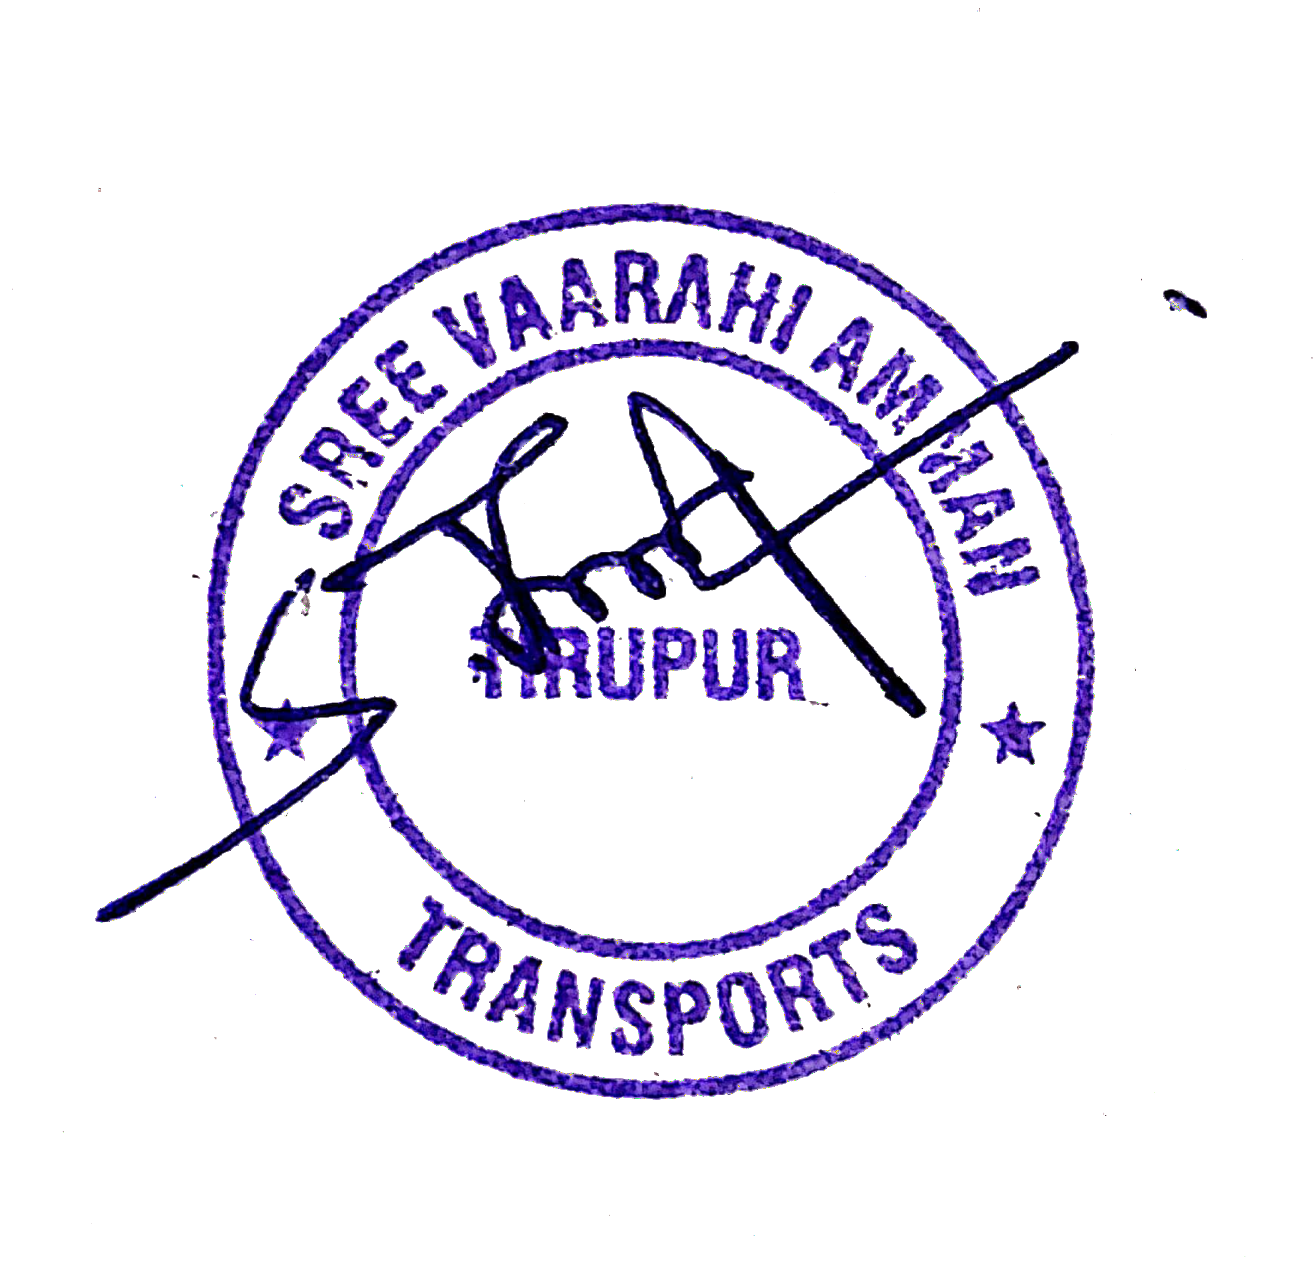
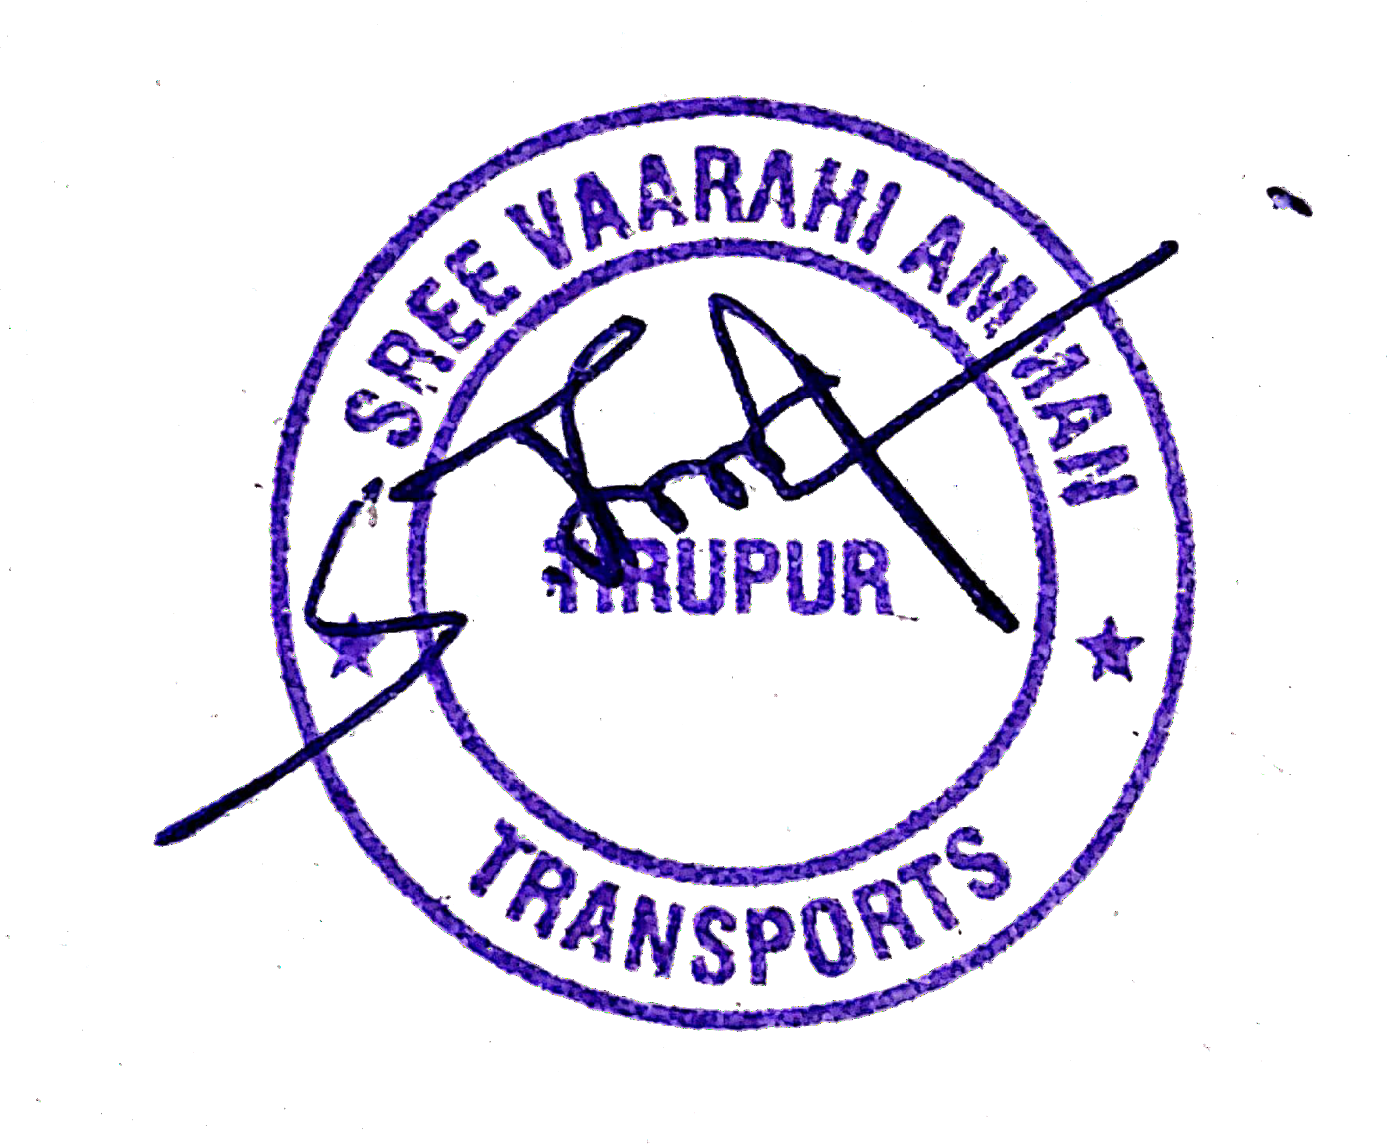
sign

Changed region(s): [[0.0624, 0.0611, 0.8737, 0.9162], [0.8737, 0.2138, 0.9361, 0.2443], [0.9049, 0.1527, 0.9361, 0.1832]]

diff --git a/src/pages/Dashboard.jsx b/src/pages/Dashboard.jsx
@@ -1985,12 +1985,12 @@ export default function Dashboard({ onLogout }) {
                       <table className="bill-table" style={{ width: '100%', borderCollapse: 'collapse', fontSize: '0.72rem' }}>
                         <thead>
                           <tr>
-                            <th style={{ width: '8%', textAlign: 'center', borderRight: '1.5px solid #000000', borderBottom: '1.5px solid #000000', padding: '4px' }}>Sl No.</th>
-                            <th style={{ width: '45%', textAlign: 'center', borderRight: '1.5px solid #000000', borderBottom: '1.5px solid #000000', padding: '4px' }}>Particulars</th>
-                            <th style={{ width: '12%', textAlign: 'center', borderRight: '1.5px solid #000000', borderBottom: '1.5px solid #000000', padding: '4px' }}>Quantity</th>
-                            <th style={{ width: '15%', textAlign: 'center', borderRight: '1.5px solid #000000', borderBottom: '1.5px solid #000000', padding: '4px' }}>Rate</th>
-                            <th style={{ width: '10%', textAlign: 'center', borderRight: '1.5px solid #000000', borderBottom: '1.5px solid #000000', padding: '4px' }}>per</th>
-                            <th style={{ width: '10%', textAlign: 'center', borderBottom: '1.5px solid #000000', padding: '4px' }}>Amount</th>
+                            <th style={{ width: '6%', textAlign: 'center', borderRight: '1.5px solid #000000', borderBottom: '1.5px solid #000000', padding: '4px' }}>Sl No.</th>
+                            <th style={{ width: '35%', textAlign: 'center', borderRight: '1.5px solid #000000', borderBottom: '1.5px solid #000000', padding: '4px' }}>Particulars</th>
+                            <th style={{ width: '10%', textAlign: 'center', borderRight: '1.5px solid #000000', borderBottom: '1.5px solid #000000', padding: '4px' }}>Quantity</th>
+                            <th style={{ width: '14%', textAlign: 'center', borderRight: '1.5px solid #000000', borderBottom: '1.5px solid #000000', padding: '4px' }}>Rate</th>
+                            <th style={{ width: '7%', textAlign: 'center', borderRight: '1.5px solid #000000', borderBottom: '1.5px solid #000000', padding: '4px' }}>per</th>
+                            <th style={{ width: '28%', textAlign: 'center', borderBottom: '1.5px solid #000000', padding: '4px' }}>Amount</th>
                           </tr>
                         </thead>
                         <tbody>
@@ -2019,7 +2019,7 @@ export default function Dashboard({ onLogout }) {
                                 <td style={{ textAlign: 'right', borderRight: '1.5px solid #000000', padding: '6px' }}>{qtyVal !== null ? qtyVal : ''}</td>
                                 <td style={{ textAlign: 'right', borderRight: '1.5px solid #000000', padding: '6px' }}>{rateVal !== null ? rateVal.toLocaleString('en-IN', { minimumFractionDigits: 2, maximumFractionDigits: 2 }) : ''}</td>
                                 <td style={{ borderRight: '1.5px solid #000000', padding: '6px', textAlign: 'center' }}>{item.per || ''}</td>
-                                <td style={{ textAlign: 'right', fontWeight: 800, padding: '6px' }}>{amtStr}</td>
+                                <td style={{ textAlign: 'right', fontWeight: 800, padding: '6px', whiteSpace: 'nowrap' }}>{amtStr}</td>
                               </tr>
                             );
                           })}
@@ -2040,7 +2040,7 @@ export default function Dashboard({ onLogout }) {
                           <tr style={{ borderTop: '1.5px solid #000000', fontWeight: 'bold' }}>
                             <td style={{ borderRight: '1.5px solid #000000', padding: '4px' }}></td>
                             <td colSpan={4} style={{ borderRight: '1.5px solid #000000', textAlign: 'right', padding: '4px' }}>Sub Total</td>
-                            <td style={{ textAlign: 'right', padding: '4px' }}>{subtotal.toLocaleString('en-IN', { minimumFractionDigits: 2, maximumFractionDigits: 2 })}</td>
+                            <td style={{ textAlign: 'right', padding: '4px', whiteSpace: 'nowrap' }}>{subtotal.toLocaleString('en-IN', { minimumFractionDigits: 2, maximumFractionDigits: 2 })}</td>
                           </tr>
 
                           {/* CGST row */}
@@ -2050,7 +2050,7 @@ export default function Dashboard({ onLogout }) {
                               <td colSpan={4} style={{ borderRight: '1.5px solid #000000', textAlign: 'right', padding: '4px' }}>
                                 CGST ( {displayCgstRate ? `${displayCgstRate} %` : '        %'} )
                               </td>
-                              <td style={{ textAlign: 'right', padding: '4px' }}>{cgstAmount.toLocaleString('en-IN', { minimumFractionDigits: 2, maximumFractionDigits: 2 })}</td>
+                              <td style={{ textAlign: 'right', padding: '4px', whiteSpace: 'nowrap' }}>{cgstAmount.toLocaleString('en-IN', { minimumFractionDigits: 2, maximumFractionDigits: 2 })}</td>
                             </tr>
                           )}
 
@@ -2061,7 +2061,7 @@ export default function Dashboard({ onLogout }) {
                               <td colSpan={4} style={{ borderRight: '1.5px solid #000000', textAlign: 'right', padding: '4px' }}>
                                 SGST ( {displaySgstRate ? `${displaySgstRate} %` : '        %'} )
                               </td>
-                              <td style={{ textAlign: 'right', padding: '4px' }}>{sgstAmount.toLocaleString('en-IN', { minimumFractionDigits: 2, maximumFractionDigits: 2 })}</td>
+                              <td style={{ textAlign: 'right', padding: '4px', whiteSpace: 'nowrap' }}>{sgstAmount.toLocaleString('en-IN', { minimumFractionDigits: 2, maximumFractionDigits: 2 })}</td>
                             </tr>
                           )}
 
@@ -2072,7 +2072,7 @@ export default function Dashboard({ onLogout }) {
                               <td colSpan={4} style={{ borderRight: '1.5px solid #000000', textAlign: 'right', padding: '4px' }}>
                                 IGST ( 0 % )
                               </td>
-                              <td style={{ textAlign: 'right', padding: '4px' }}>{igstAmount.toLocaleString('en-IN', { minimumFractionDigits: 2, maximumFractionDigits: 2 })}</td>
+                              <td style={{ textAlign: 'right', padding: '4px', whiteSpace: 'nowrap' }}>{igstAmount.toLocaleString('en-IN', { minimumFractionDigits: 2, maximumFractionDigits: 2 })}</td>
                             </tr>
                           )}
 
@@ -2084,7 +2084,7 @@ export default function Dashboard({ onLogout }) {
                             <td colSpan={4} style={{ borderRight: '1.5px solid #000000', textAlign: 'right', padding: '5px', fontWeight: '800' }}>
                               Grand Total
                             </td>
-                            <td style={{ textAlign: 'right', padding: '5px', fontWeight: '800' }}>
+                            <td style={{ textAlign: 'right', padding: '5px', fontWeight: '800', whiteSpace: 'nowrap' }}>
                               ₹ {totalAmount.toLocaleString('en-IN', { minimumFractionDigits: 2, maximumFractionDigits: 2 })}
                             </td>
                           </tr>

diff --git a/src/pages/LrCreator.jsx b/src/pages/LrCreator.jsx
@@ -297,10 +297,12 @@ export default function LrCreator({ loadedLr = null, triggerToast = null }) {
     return dateStr;
   };
 
-  const [signatureImage, setSignatureImage] = useState(() => {
-    return localStorage.getItem('svat_signature_image') || '/signature.png';
-  });
+  const [signatureImage, setSignatureImage] = useState('/signature.png');
   const [showSignature, setShowSignature] = useState(true);
+
+  useEffect(() => {
+    localStorage.removeItem('svat_signature_image');
+  }, []);
 
   const handleSignatureUpload = (e) => {
     const file = e.target.files[0];
@@ -1241,11 +1243,13 @@ export default function LrCreator({ loadedLr = null, triggerToast = null }) {
               {(formData.cargoItems || []).map((item, idx) => (
                 <tr key={idx}>
                   <td>
-                    <AutocompleteTableInput
-                      placeholder="e.g. 100"
+                    <input
+                      type="text"
+                      className="form-input"
+                      style={{ width: '100%', padding: '6px 8px', fontSize: '0.8rem' }}
+                      placeholder="e.g. 10"
                       value={item.noOfPackages}
                       onChange={(e) => handleCargoItemChange(idx, 'noOfPackages', e.target.value)}
-                      suggestions={getFieldSuggestionsForCargo('noOfPackages')}
                     />
                   </td>
                   <td>
@@ -1257,19 +1261,23 @@ export default function LrCreator({ loadedLr = null, triggerToast = null }) {
                     />
                   </td>
                   <td>
-                    <AutocompleteTableInput
+                    <input
+                      type="text"
+                      className="form-input"
+                      style={{ width: '100%', padding: '6px 8px', fontSize: '0.8rem' }}
                       placeholder="Kgs"
                       value={item.actualWeight}
                       onChange={(e) => handleCargoItemChange(idx, 'actualWeight', e.target.value)}
-                      suggestions={getFieldSuggestionsForCargo('actualWeight')}
                     />
                   </td>
                   <td>
-                    <AutocompleteTableInput
+                    <input
+                      type="text"
+                      className="form-input"
+                      style={{ width: '100%', padding: '6px 8px', fontSize: '0.8rem' }}
                       placeholder="Kgs"
                       value={item.chargedWeight}
                       onChange={(e) => handleCargoItemChange(idx, 'chargedWeight', e.target.value)}
-                      suggestions={getFieldSuggestionsForCargo('chargedWeight')}
                     />
                   </td>
                   <td>
@@ -1941,9 +1949,23 @@ export default function LrCreator({ loadedLr = null, triggerToast = null }) {
                               </td>
                               {/* Receiver's Signature Box */}
                               <td style={{ width: '35%', borderRight: '3px solid #08103A', padding: '6px', verticalAlign: 'top', fontSize: '0.65rem' }}>
-                                <div style={{ display: 'flex', flexDirection: 'column', minHeight: '100px', justifyContent: 'space-between' }}>
+                                <div style={{ display: 'flex', flexDirection: 'column', minHeight: '100px', justifyContent: 'space-between', alignItems: 'center', position: 'relative' }}>
                                   <div style={{ textAlign: 'center' }}>Received the goods in good condition and order</div>
-                                  <div style={{ textAlign: 'center', marginTop: 'auto', paddingTop: '15px' }}>
+                                  {showSignature && (
+                                    <img 
+                                      src="/signature.png" 
+                                      alt="Authorised Signature & Seal" 
+                                      style={{ 
+                                        position: 'absolute', 
+                                        top: '20px', 
+                                        height: '54px', 
+                                        maxWidth: '260px', 
+                                        objectFit: 'contain',
+                                        pointerEvents: 'none'
+                                      }} 
+                                    />
+                                  )}
+                                  <div style={{ textAlign: 'center', width: '100%', marginTop: 'auto', paddingTop: '15px' }}>
                                     <div style={{ borderBottom: '1px dotted #08103A', width: '80%', margin: '0 auto 4px' }}></div>
                                     <strong>Receiver's Signature with seal</strong>
                                   </div>
@@ -1955,15 +1977,15 @@ export default function LrCreator({ loadedLr = null, triggerToast = null }) {
                                   <div style={{ width: '100%', display: 'flex', justifyContent: 'center' }}>
                                     <img src="/Title.png" alt="SREE VAARAHI AMMAN TRANSPORTS" style={{ height: '18px', width: 'auto', objectFit: 'contain' }} />
                                   </div>
-                                  {showSignature && signatureImage && (
+                                  {showSignature && (
                                     <img 
-                                      src={signatureImage} 
-                                      alt="Signature" 
+                                      src="/signature-only.png" 
+                                      alt="Signature Only" 
                                       style={{ 
                                         position: 'absolute', 
                                         top: '20px', 
                                         height: '54px', 
-                                        maxWidth: '260px', 
+                                        maxWidth: '220px', 
                                         objectFit: 'contain',
                                         pointerEvents: 'none'
                                       }} 

diff --git a/src/pages/Quotation.jsx b/src/pages/Quotation.jsx
@@ -501,7 +501,7 @@ const Quotation = ({ type = 'export', loadedData = null, triggerToast = null }) 
         {/* Title */}
         <div style={{ textAlign: 'center', marginBottom: '10px' }}>
           <h3 style={{ fontSize: '14px', fontWeight: 'bold', textDecoration: 'underline', margin: '0' }}>
-            RATE QUATATION
+            EXPORT RATE QUATATION
           </h3>
         </div>
 
@@ -842,6 +842,13 @@ const Quotation = ({ type = 'export', loadedData = null, triggerToast = null }) 
               </div>
             </div>
 
+            {/* Title */}
+            <div style={{ textAlign: 'center', marginBottom: '15px' }}>
+              <h3 style={{ fontSize: '18px', fontWeight: 'bold', textDecoration: 'underline', margin: '0' }}>
+                DOMESTIC RATE QUOTATION
+              </h3>
+            </div>
+
             {/* Address & Date Flex Container */}
             <div style={{ display: 'flex', justifyContent: 'space-between', alignItems: 'flex-start', marginBottom: '15px' }}>
               {/* Address */}
@@ -893,23 +900,48 @@ const Quotation = ({ type = 'export', loadedData = null, triggerToast = null }) 
               </div>
             </div>
 
-            {/* Route Header */}
-            <div style={{ textAlign: 'center', marginBottom: '12px', display: 'flex', justifyContent: 'center', alignItems: 'center', gap: '8px' }}>
-              <span style={{ fontSize: '16px', fontWeight: 'bold' }}>RATE QUOTATION FOR</span>
-              <AutocompleteInlineInput
-                value={domesticLocation.from}
-                onChange={(e) => setDomesticLocation({ ...domesticLocation, from: e.target.value })}
-                suggestions={suggestionsRegistry.cities}
-                style={{ ...inputStyle, width: '90px', fontSize: '16px', borderBottom: '1px dashed #ccc' }}
-              />
-              <span style={{ fontSize: '16px', fontWeight: 'bold' }}>TO</span>
-              <AutocompleteInlineInput
-                value={domesticLocation.to}
-                onChange={(e) => setDomesticLocation({ ...domesticLocation, to: e.target.value })}
-                suggestions={suggestionsRegistry.cities}
-                style={{ ...inputStyle, width: '90px', fontSize: '16px', borderBottom: '1px dashed #ccc' }}
-              />
+            {/* Route Header (From & To) */}
+            <div style={{ display: 'flex', justifyContent: 'space-around', alignItems: 'center', marginBottom: '20px', fontSize: '15px', fontWeight: 'bold' }}>
+              <div style={{ display: 'flex', alignItems: 'center', gap: '10px' }}>
+                <span>From</span>
+                <AutocompleteInlineInput
+                  value={domesticLocation.from}
+                  onChange={(e) => setDomesticLocation({ ...domesticLocation, from: e.target.value })}
+                  suggestions={suggestionsRegistry.cities}
+                  style={{
+                    border: '1px solid #000',
+                    background: 'transparent',
+                    padding: '4px 10px',
+                    outline: 'none',
+                    width: '180px',
+                    fontFamily: '"Times New Roman", Times, serif',
+                    fontSize: '15px',
+                    fontWeight: 'bold'
+                  }}
+                  className="pdf-textarea"
+                />
+              </div>
+              <div style={{ display: 'flex', alignItems: 'center', gap: '10px' }}>
+                <span>To</span>
+                <AutocompleteInlineInput
+                  value={domesticLocation.to}
+                  onChange={(e) => setDomesticLocation({ ...domesticLocation, to: e.target.value })}
+                  suggestions={suggestionsRegistry.cities}
+                  style={{
+                    border: '1px solid #000',
+                    background: 'transparent',
+                    padding: '4px 10px',
+                    outline: 'none',
+                    width: '180px',
+                    fontFamily: '"Times New Roman", Times, serif',
+                    fontSize: '15px',
+                    fontWeight: 'bold'
+                  }}
+                  className="pdf-textarea"
+                />
+              </div>
             </div>
+
             {/* Rates Table */}
             <table style={{ width: '100%', borderCollapse: 'collapse', marginBottom: '20px', textAlign: 'center', fontSize: '13px' }}>
               <thead>
